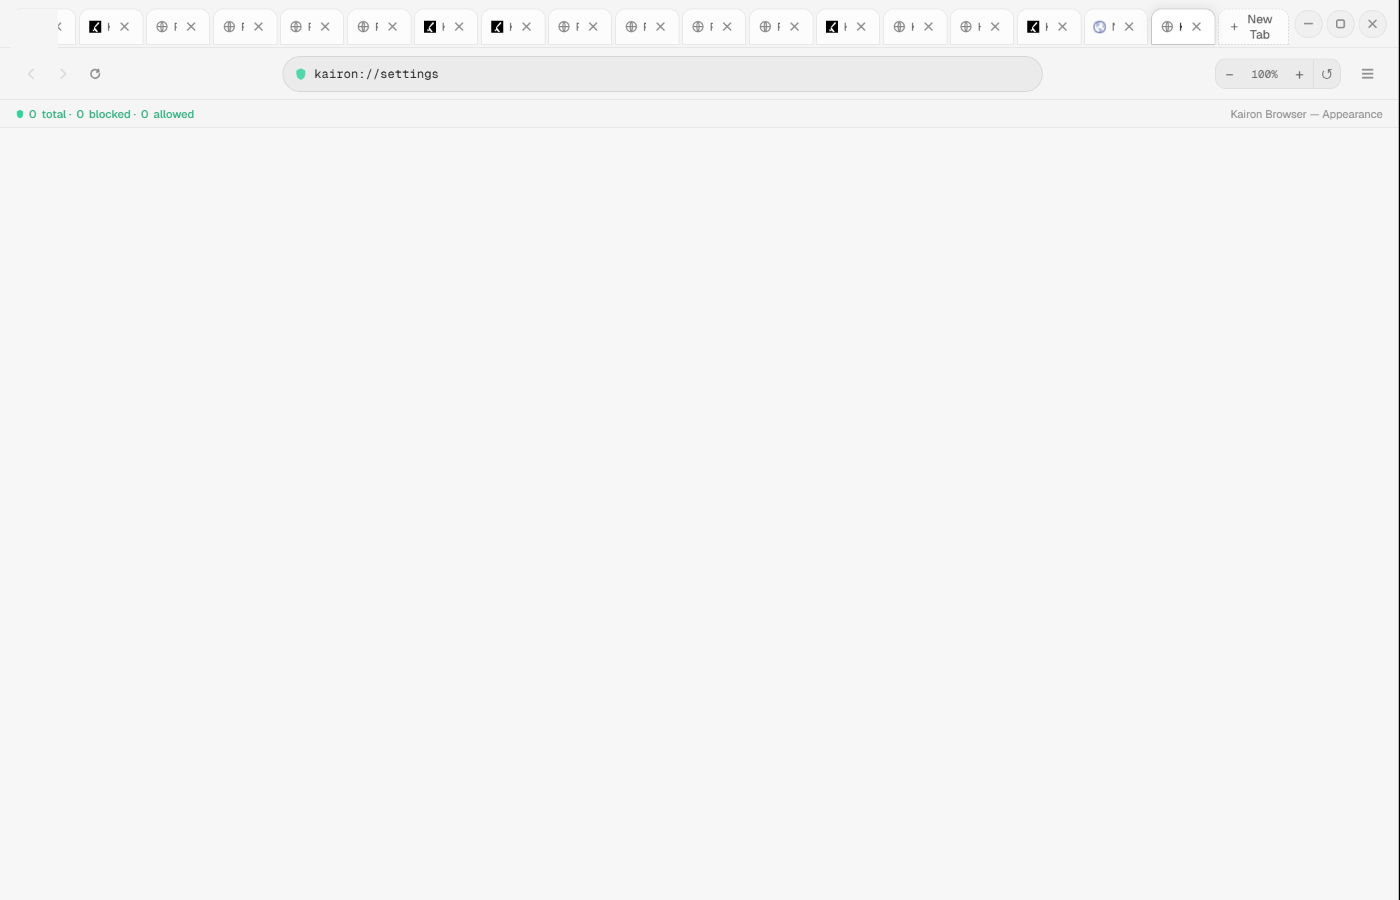
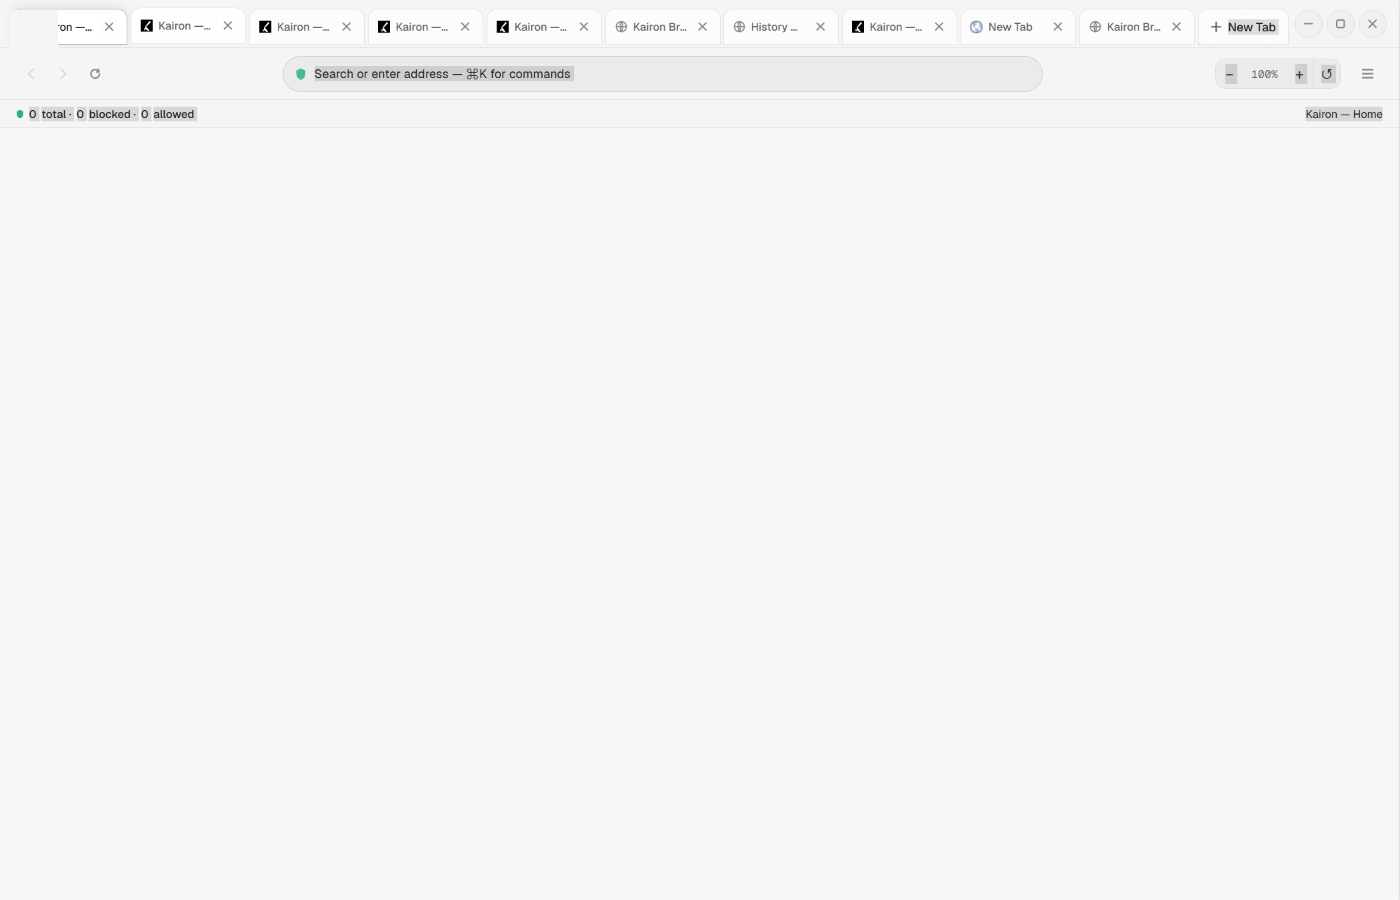
Beta 4.0 complete global theme consistency audit

diff --git a/src/renderer/ai.js b/src/renderer/ai.js
@@ -9,11 +9,11 @@ function _md(text) {
   return text
     // Code blocks (must come before inline code)
     .replace(/```(\w*)\n?([\s\S]*?)```/g, (_, lang, code) =>
-      `<pre style="background:rgba(0,0,0,0.35);border:1px solid rgba(255,255,255,0.07);border-radius:8px;padding:10px 12px;overflow-x:auto;font-family:var(--font-mono);font-size:11.5px;line-height:1.6;margin:6px 0"><code>${_escHtml(code.trim())}</code></pre>`
+      `<pre style="background:var(--ai-code-bg);border:1px solid var(--ai-code-border);border-radius:8px;padding:10px 12px;overflow-x:auto;font-family:var(--font-mono);font-size:11.5px;line-height:1.6;margin:6px 0"><code>${_escHtml(code.trim())}</code></pre>`
     )
     // Inline code
     .replace(/`([^`]+)`/g, (_, c) =>
-      `<code style="background:rgba(255,255,255,0.08);border-radius:4px;padding:1px 5px;font-family:var(--font-mono);font-size:11.5px">${_escHtml(c)}</code>`
+      `<code style="background:var(--ai-inline-code-bg);border-radius:4px;padding:1px 5px;font-family:var(--font-mono);font-size:11.5px">${_escHtml(c)}</code>`
     )
     // Bold
     .replace(/\*\*(.+?)\*\*/g, '<strong>$1</strong>')
@@ -21,7 +21,7 @@ function _md(text) {
     .replace(/\*(.+?)\*/g, '<em>$1</em>')
     // Links
     .replace(/\[([^\]]+)\]\((https?:\/\/[^\)]+)\)/g,
-      '<a href="$2" style="color:var(--text-accent);text-decoration:none;border-bottom:1px solid rgba(255,255,255,0.22)" target="_blank" rel="noopener">$1</a>'
+      '<a href="$2" style="color:var(--text-accent);text-decoration:none;border-bottom:1px solid var(--ai-link-underline)" target="_blank" rel="noopener">$1</a>'
     )
     // Unordered list items
     .replace(/^[\*\-] (.+)$/gm, '<li style="margin-left:14px;margin-top:3px">$1</li>')
@@ -32,7 +32,7 @@ function _md(text) {
     .replace(/^## (.+)$/gm,  '<p style="font-size:14px;font-weight:700;color:var(--text-primary);margin:12px 0 5px">$1</p>')
     .replace(/^# (.+)$/gm,   '<p style="font-size:15px;font-weight:700;color:var(--text-primary);margin:14px 0 6px">$1</p>')
     // Horizontal rule
-    .replace(/^---$/gm, '<hr style="border:none;border-top:1px solid rgba(255,255,255,0.08);margin:12px 0"/>')
+    .replace(/^---$/gm, '<hr style="border:none;border-top:1px solid var(--ai-hr-border);margin:12px 0"/>')
     // Line breaks → paragraph breaks
     .replace(/\n\n/g, '</p><p style="margin-top:6px">')
     .replace(/\n/g, '<br/>');
@@ -108,8 +108,8 @@ export function initAiPanel(kairon) {
       ">
         <div style="
             width:48px;height:48px;border-radius:50%;
-            background:rgba(207,175,108,0.08);
-            border:1px solid rgba(207,175,108,0.12);
+            background:var(--ai-welcome-avatar-bg);
+            border:1px solid var(--ai-welcome-avatar-border);
             display:flex;align-items:center;justify-content:center;
           ">
             ${AVATAR_AI}
@@ -163,14 +163,14 @@ export function initAiPanel(kairon) {
     avatar.className = 'msg-avatar';
     if (isUser) {
       avatar.textContent = AVATAR_USER;
-      avatar.style.background = 'rgba(255,255,255,0.02)';
-      avatar.style.borderColor = 'rgba(255,255,255,0.04)';
+      avatar.style.background = 'var(--ai-user-avatar-bg)';
+      avatar.style.borderColor = 'var(--ai-user-avatar-border)';
       avatar.style.color = 'var(--text-tertiary)';
     } else {
       avatar.innerHTML = AVATAR_AI;
-      avatar.style.background = 'rgba(207,175,108,0.08)';
-      avatar.style.borderColor = 'rgba(207,175,108,0.12)';
-      avatar.style.color = '#111';
+      avatar.style.background = 'var(--ai-welcome-avatar-bg)';
+      avatar.style.borderColor = 'var(--ai-welcome-avatar-border)';
+      avatar.style.color = 'var(--ai-avatar-ai-color)';
     }
 
     const bubble = document.createElement('div');
@@ -386,7 +386,7 @@ export function initAiPanel(kairon) {
         width:30px;height:30px;
         border-radius:50%;
         border:1px solid var(--border-1);
-        background:rgba(13,15,26,0.92);
+        background:var(--ai-scroll-btn-bg);
         backdrop-filter:blur(12px);
         color:var(--text-secondary);
         display:inline-flex;

diff --git a/src/renderer/style.css b/src/renderer/style.css
@@ -109,6 +109,22 @@
      --warning-hover-text: #ffd680;
      --success-tint:      rgba(52, 211, 155, 0.18);
      --success-hover-text: #7fffd4;
+
+     /* Component tokens — AI panel + shields menu. Dark values are the exact
+        pre-theme colors (unchanged); light values live in the light theme
+        block below so every Kairon surface follows the global Theme Mode. */
+     --ai-code-bg:           rgba(0, 0, 0, 0.35);
+     --ai-code-border:       rgba(255, 255, 255, 0.07);
+     --ai-inline-code-bg:    rgba(255, 255, 255, 0.08);
+     --ai-link-underline:    rgba(255, 255, 255, 0.22);
+     --ai-hr-border:         rgba(255, 255, 255, 0.08);
+     --ai-scroll-btn-bg:     rgba(13, 15, 26, 0.92);
+     --ai-user-avatar-bg:    rgba(255, 255, 255, 0.02);
+     --ai-user-avatar-border: rgba(255, 255, 255, 0.04);
+     --ai-avatar-ai-color:   #111111;
+     --ai-welcome-avatar-bg: rgba(207, 175, 108, 0.08);
+     --ai-welcome-avatar-border: rgba(207, 175, 108, 0.12);
+     --shields-border:       rgba(255, 255, 255, 0.06);
    
      /* Motion */
      --dur-micro:  90ms;
@@ -216,6 +232,22 @@
      --warning-hover-text: #8a6115;
      --success-tint:       rgba(47, 174, 126, 0.14);
      --success-hover-text: #1e7a58;
+
+     /* Component tokens — AI panel + shields menu light values: dark ink
+        chips, subtle gray borders, and an off-white scroll button so these
+        surfaces mirror the rest of the chrome. */
+     --ai-code-bg:           rgba(0, 0, 0, 0.06);
+     --ai-code-border:       rgba(0, 0, 0, 0.12);
+     --ai-inline-code-bg:    rgba(0, 0, 0, 0.06);
+     --ai-link-underline:    rgba(0, 0, 0, 0.25);
+     --ai-hr-border:         rgba(0, 0, 0, 0.10);
+     --ai-scroll-btn-bg:     rgba(255, 255, 255, 0.95);
+     --ai-user-avatar-bg:    rgba(0, 0, 0, 0.03);
+     --ai-user-avatar-border: rgba(0, 0, 0, 0.07);
+     --ai-avatar-ai-color:   #1a1a1a;
+     --ai-welcome-avatar-bg: rgba(207, 175, 108, 0.12);
+     --ai-welcome-avatar-border: rgba(207, 175, 108, 0.22);
+     --shields-border:       rgba(0, 0, 0, 0.14);
    }
    
    /* While a theme flip is in progress, transitions are suspended so the whole
@@ -953,6 +985,14 @@
      font-weight: 500;
      letter-spacing: 0.01em;
    }
+
+   /* The shield + tracker-pill glyphs carry the semantic success color via the
+      theme token (dark value #34d39b is unchanged; light resolves to the
+      darker light-theme green). */
+   #shield svg path,
+   #tracker-pill svg path {
+     fill: var(--color-success);
+   }
    
    #page-title {
      max-width: 50%;
@@ -1208,7 +1248,7 @@
    body[data-tab-position="top"] {
      padding: 0;
      gap: 0;
-     background: black;
+     background: var(--bg-base);
    }
    
    body[data-tab-position="top"] #left-rail {

diff --git a/src/renderer/ui.js b/src/renderer/ui.js
@@ -1142,7 +1142,9 @@ export function createUiController(kairon, store, onLayoutChange) {
     if (blockedNum) blockedNum.textContent = String(blockedCount);
     if (notBlockedNum) notBlockedNum.textContent = String(notBlocked);
     if (wasBlocked && blockedNum) {
-      blockedNum.style.color = '#34d39b';
+      // Theme token: resolves to #34d39b in dark mode (unchanged) and the
+      // darker light-theme green in light mode.
+      blockedNum.style.color = 'var(--color-success)';
       setTimeout(() => { blockedNum.style.color = ''; }, 500);
     }
   }
@@ -1248,7 +1250,7 @@ export function createUiController(kairon, store, onLayoutChange) {
         shieldsMenu.style.zIndex = '9999';
         shieldsMenu.style.minWidth = '200px';
         shieldsMenu.style.background = 'var(--surface-1)';
-        shieldsMenu.style.border = '1px solid rgba(255,255,255,0.06)';
+        shieldsMenu.style.border = '1px solid var(--shields-border)';
         shieldsMenu.style.borderRadius = '8px';
         shieldsMenu.style.boxShadow = '0 8px 30px rgba(0,0,0,0.45)';
         shieldsMenu.style.padding = '8px';

diff --git a/src/main/main.js b/src/main/main.js
@@ -1449,7 +1449,10 @@ function openLinkInNewWindow(url) {
       height: 800,
       minWidth: 800,
       minHeight: 500,
-      backgroundColor: '#080810',
+      // Match the pre-load background to the persisted theme so a Kairon-owned
+      // window never flashes the wrong dark/light color before the page paints
+      // (same pattern as the main window). The page itself is never restyled.
+      backgroundColor: getCurrentThemeMode() === 'light' ? '#f0f0f0' : '#080810',
       icon: getAppIcon(),
       show: false,
       webPreferences: {
